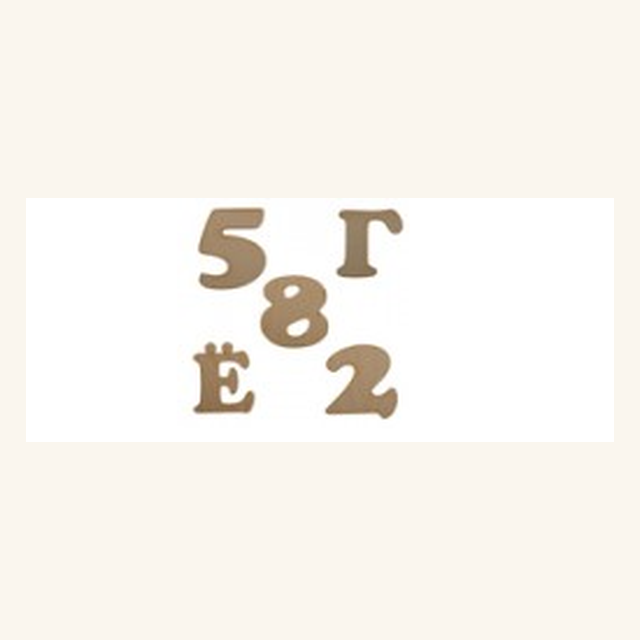
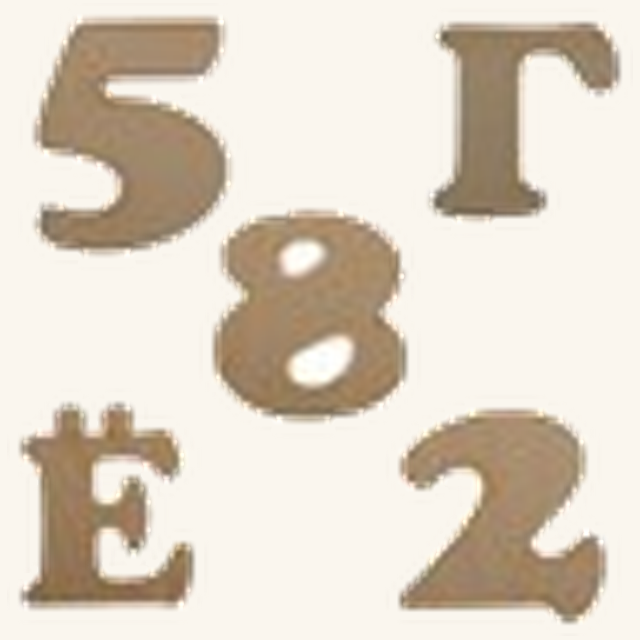
Enlarge blanks product photos and replace white studio backgrounds.

diff --git a/заготовки.html b/заготовки.html
@@ -97,7 +97,7 @@
       background: var(--cream-2);
       border-bottom: 1px solid var(--line);
       aspect-ratio: 1;
-      padding: 10px;
+      padding: 0;
     }
     .card__media img {
       width: 100%; height: 100%; object-fit: contain;
